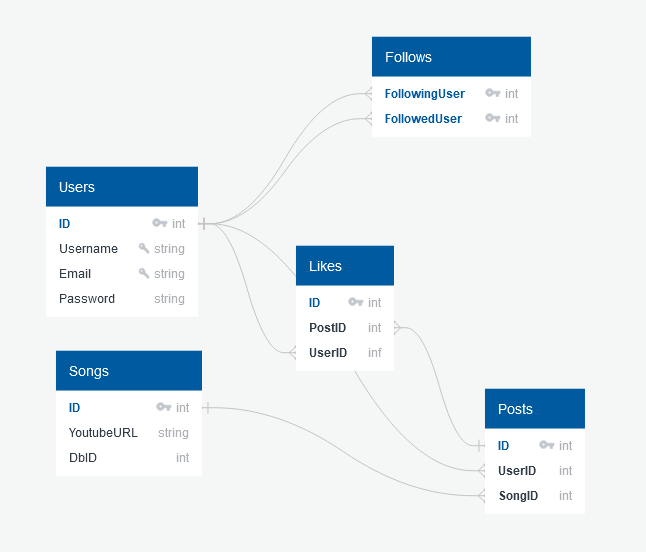
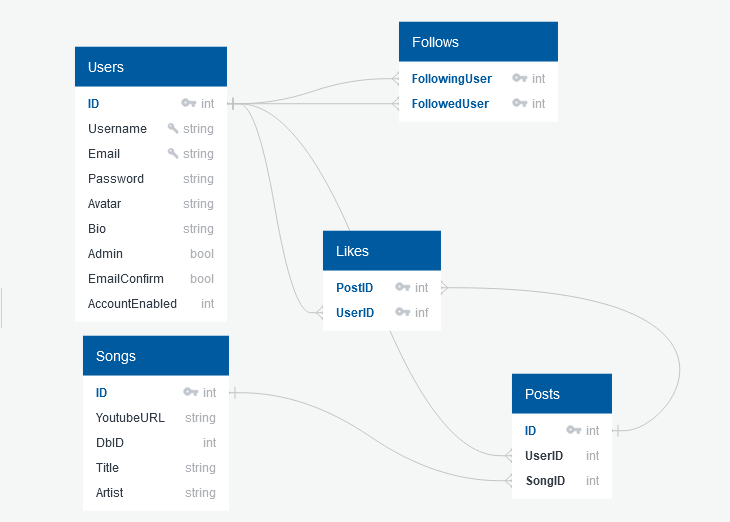
started setting up app env and structure
todo list in readme incomplete

diff --git a/searchparams.py b/searchparams.py
@@ -1,3 +1,5 @@
+
+
 class YTSearch:
     params = {
         "videoCategoryId":"10",
@@ -5,3 +7,11 @@ class YTSearch:
         "type":"video"
         }
     root_url = "https://www.googleapis.com/youtube/v3/search"
+
+
+class LastFMSearch:
+    params = {
+        "method":"track.search",
+        "format":"json"
+    }
+    root_url = "http://ws.audioscrobbler.com/2.0/"

diff --git a/README.md b/README.md
@@ -1,20 +1,21 @@
 # Check Out This Song
 ### *A This Is My Jam clone*
+<br>
 
 *Check Out This Song* (*COTS*) is a lightly social music sharing web app inspired by [This Is My Jam](https://www.thisismyjam.com/) that allows users to post one song at a time that they feel that others should check out! *COTS* is my first capstone project for the Springboard Software Engineering program.
 
+<br>
 
 ## API Selection:
 Check Out This Song will use some or all of the following APIs to resolve user requests:
-
-* Discogs API
-
-        https://api.discogs.com/database/
 
 * Youtube Data API
 
         https://www.googleapis.com/youtube/v3/search
 
+* Last.fm API
+
+        http://ws.audioscrobbler.com/2.0/
 
 ## Database Design
 COTS will use a relational database similar to the one described in the image below.
@@ -30,6 +31,11 @@ COTS will use a relational database similar to the one described in the image be
     Username string UNIQUE
     Email string UNIQUE
     Password string
+    Avatar string
+    Bio string
+    Admin boolean
+    EmailConfirm bool
+    AccountEnabled bool
 
     Posts
     -
@@ -42,15 +48,41 @@ COTS will use a relational database similar to the one described in the image be
     ID PK int
     YoutubeURL string
     DbID int
+    Title string
+    Artist string
 
     Likes
     -
-    ID PK int
-    PostID int FK >- Posts.ID
-    UserID inf FK >- Users.ID
+    PostID int PK FK >- Posts.ID
+    UserID inf PK FK >- Users.ID
 
     Follows
     -
     FollowingUser int PK FK >- Users.ID
     FollowedUser int PK FK >- Users.ID
 </details>
+ 
+<br>
+
+## User Flow
+
+### Unregistered user
+
+* When an unregistered visitor first visits the page the home page will have a short feed drawing from the most recent posts with the most likes.
+* Nav at the top and prompt at the bottom to register or login
+* Signup requires email, username, password, optional bio and (upload?) avatar
+* Signup process should include email verification step
+* Once signed up, use should be presented with a prompt to make a post
+* Once posted successfully, takes user to detail page for that post
+
+### Registered user
+
+* etc
+
+<br>
+
+## Still to do
+
+* Flesh out proposed user flows
+* Set up organization of application
+* 
